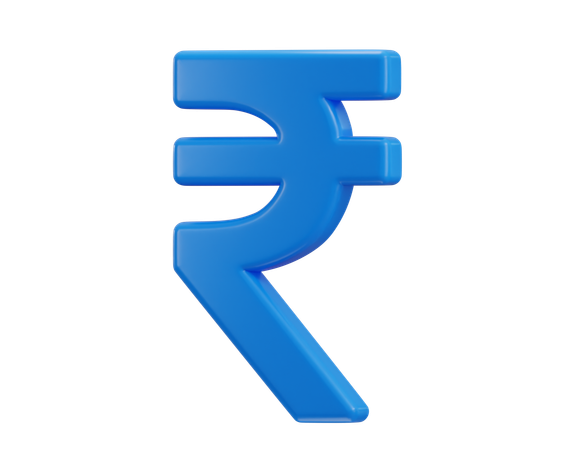
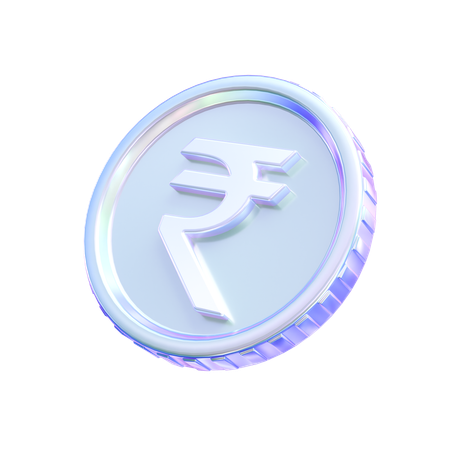
changes

diff --git a/src/app/components/sections/StatsSection.jsx b/src/app/components/sections/StatsSection.jsx
@@ -72,7 +72,7 @@ export default function StatsSection() {
                   <span className="hidden md:block absolute left-0 top-1/2 -translate-y-1/2 w-[2px] h-full bg-[var(--rv-border)]"></span>
                 )}
 
-                <div className="w-24 h-24 bg-[var(--rv-white)] p-2 rounded-xl">
+                <div className="w-24 h-24">
                   <img src={s?.img} className="w-full h-full object-cover" alt="" />
                 </div>
 

diff --git a/src/app/globals.css b/src/app/globals.css
@@ -208,7 +208,7 @@ li {
 }
 
 .animate-marquee {
-    animation: marquee 20s linear infinite;
+    animation: marquee 15s linear infinite;
 }
 
 .scrollbar {